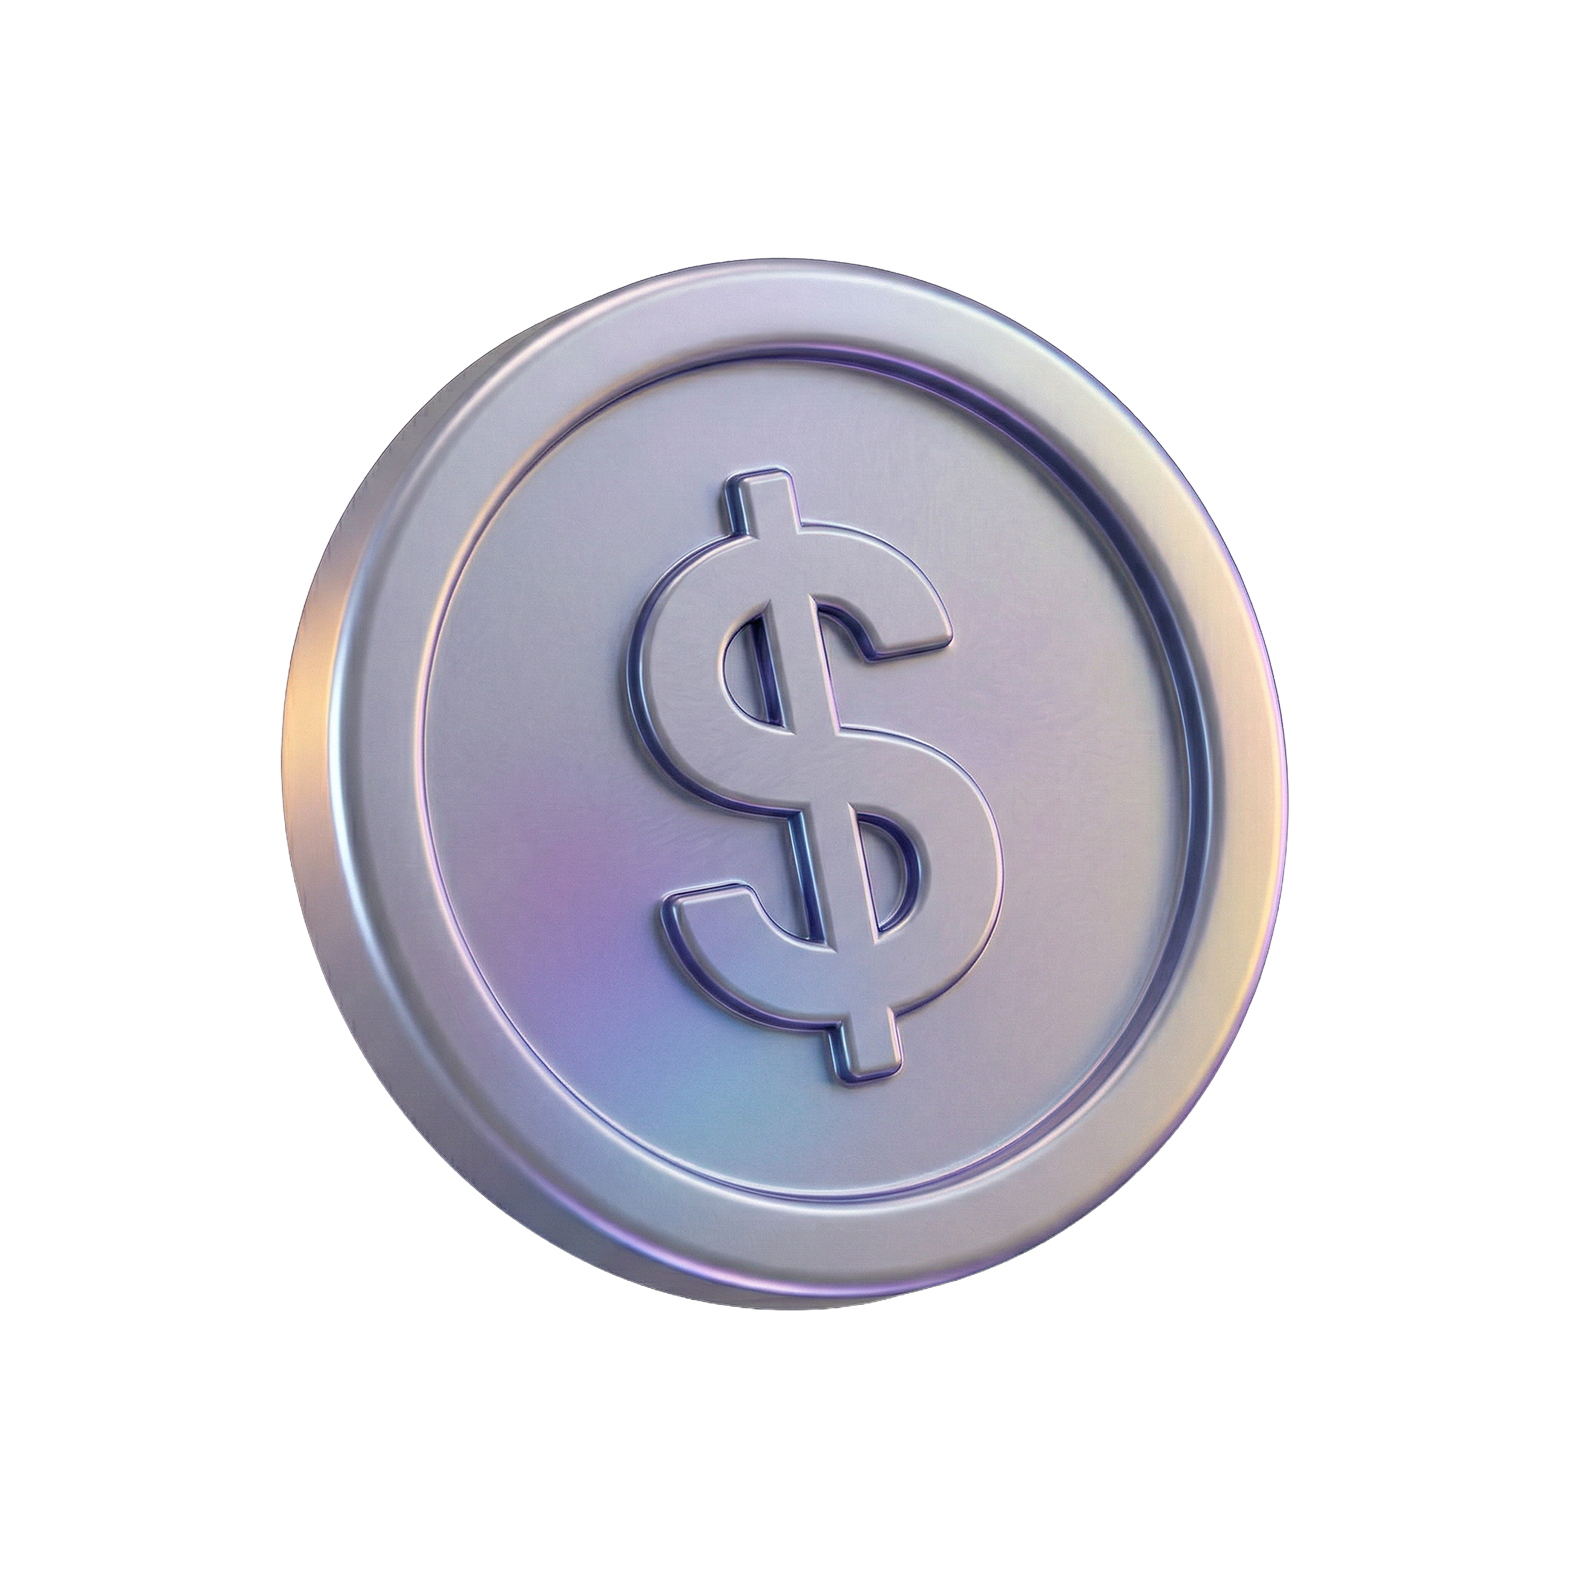
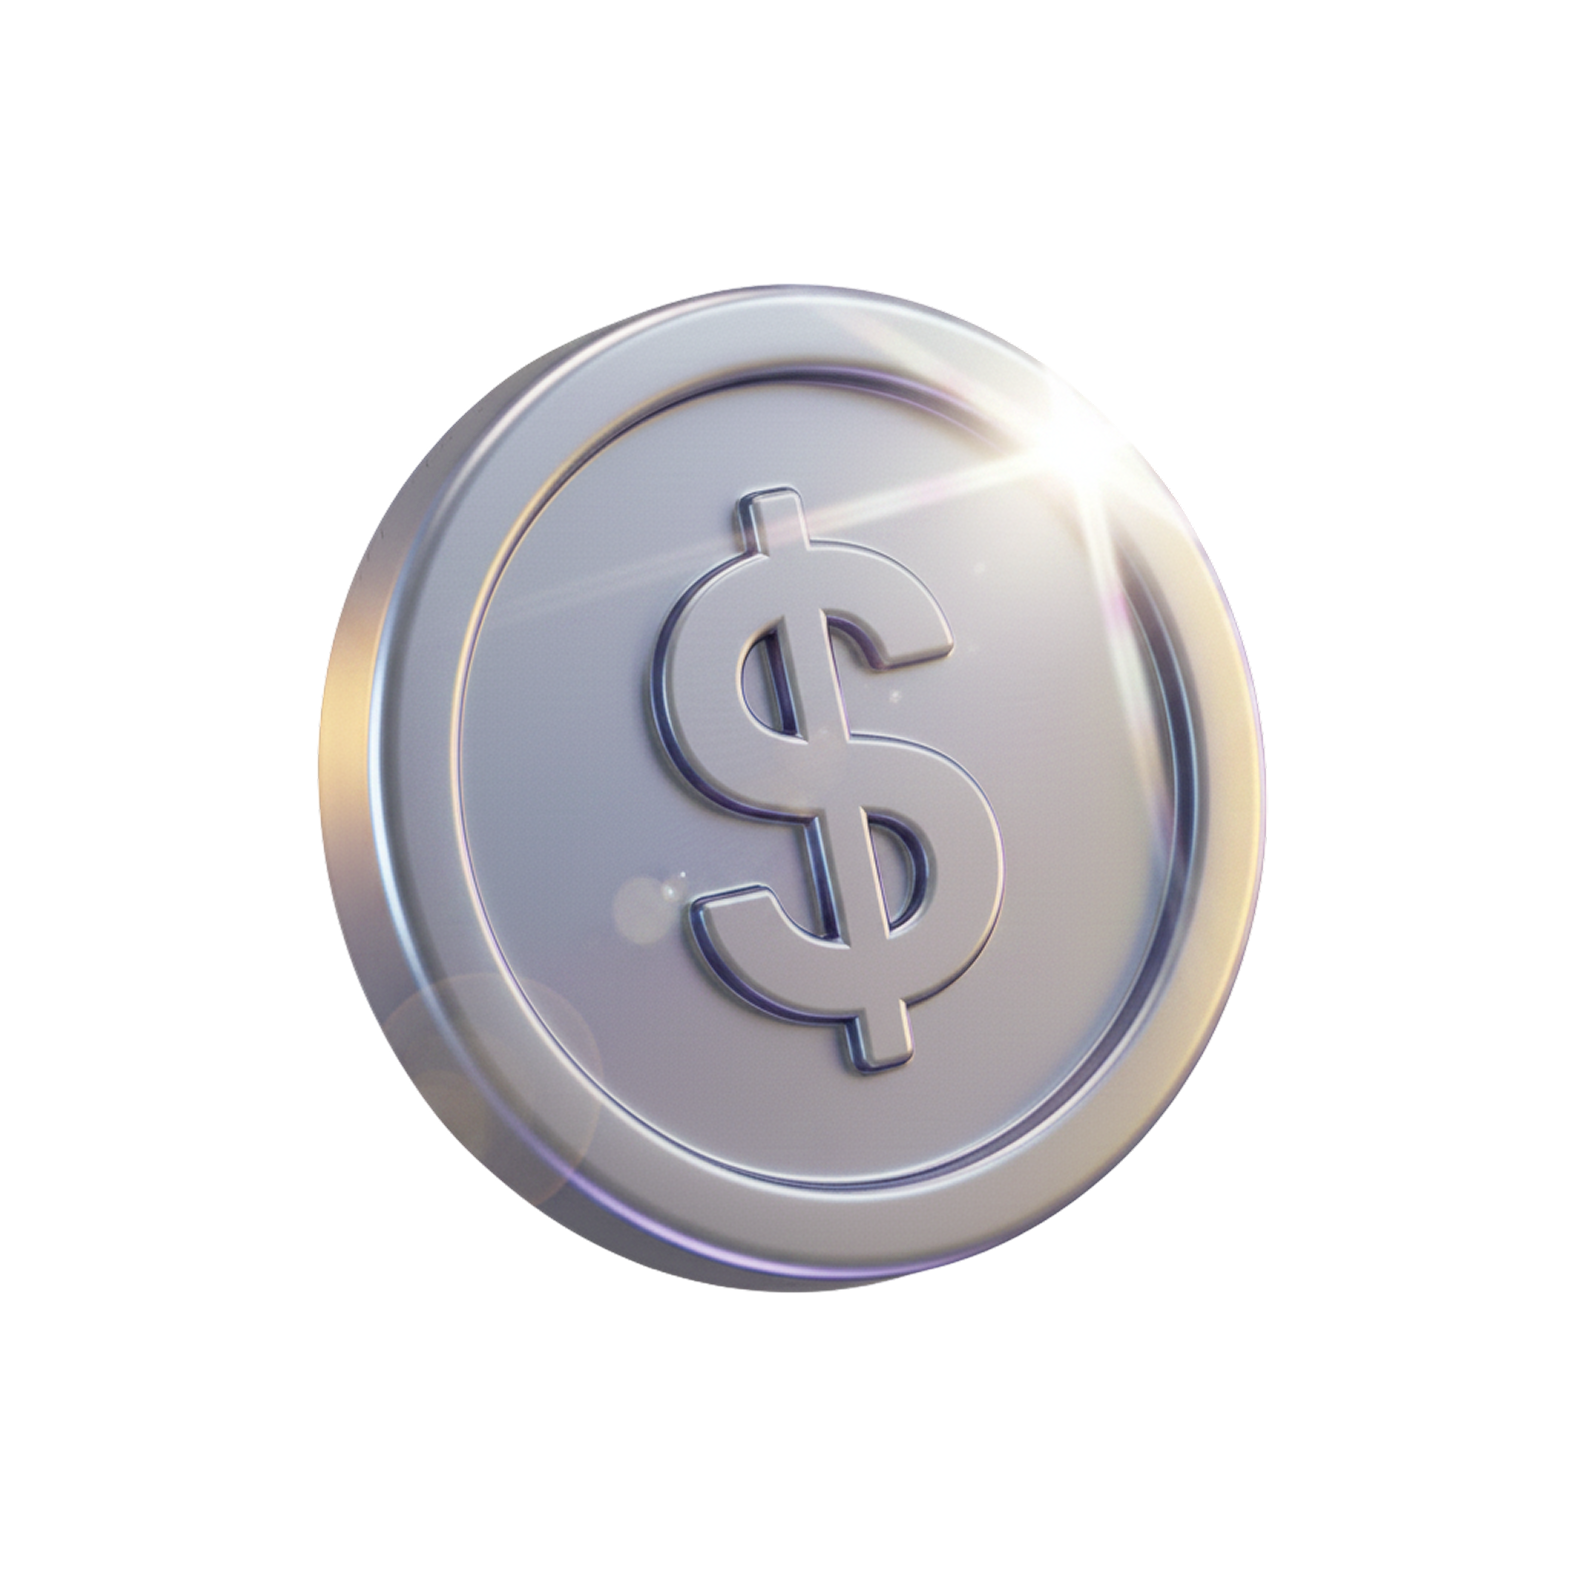
Destello en Coin

Changed region(s): [[0.156, 0.156, 0.8421, 0.8421], [0.6238, 0.499, 0.655, 0.5926]]

diff --git a/css/add-funds.css b/css/add-funds.css
@@ -146,6 +146,18 @@
     justify-content: center;
     padding: 0 32px;
     min-height: 0;
+    position: relative;
+}
+
+.afo-hero-flare {
+    position: absolute;
+    width: 220px;
+    height: 220px;
+    background: radial-gradient(circle, rgba(122, 80, 247, 0.8) 0%, rgba(122, 80, 247, 0) 70%);
+    filter: blur(28px);
+    z-index: 0;
+    border-radius: 50%;
+    animation: afoFlarePulse 4s ease-in-out infinite alternate;
 }
 
 .afo-hero-img {
@@ -156,6 +168,19 @@
     filter: drop-shadow(0 12px 32px rgba(122, 80, 247, 0.3));
     animation: afoHeroFloat 6s ease-in-out infinite;
     will-change: transform, filter;
+    z-index: 1;
+    position: relative;
+}
+
+@keyframes afoFlarePulse {
+    0% {
+        transform: scale(0.85);
+        opacity: 0.5;
+    }
+    100% {
+        transform: scale(1.15);
+        opacity: 1;
+    }
 }
 
 @keyframes afoHeroFloat {

diff --git a/dashboard.html b/dashboard.html
@@ -287,6 +287,7 @@
 
                     <!-- Hero coin image -->
                     <div class="afo-hero">
+                        <div class="afo-hero-flare"></div>
                         <img src="assets/Coin.png" alt="Digital USD Coin" class="afo-hero-img">
                     </div>
 
